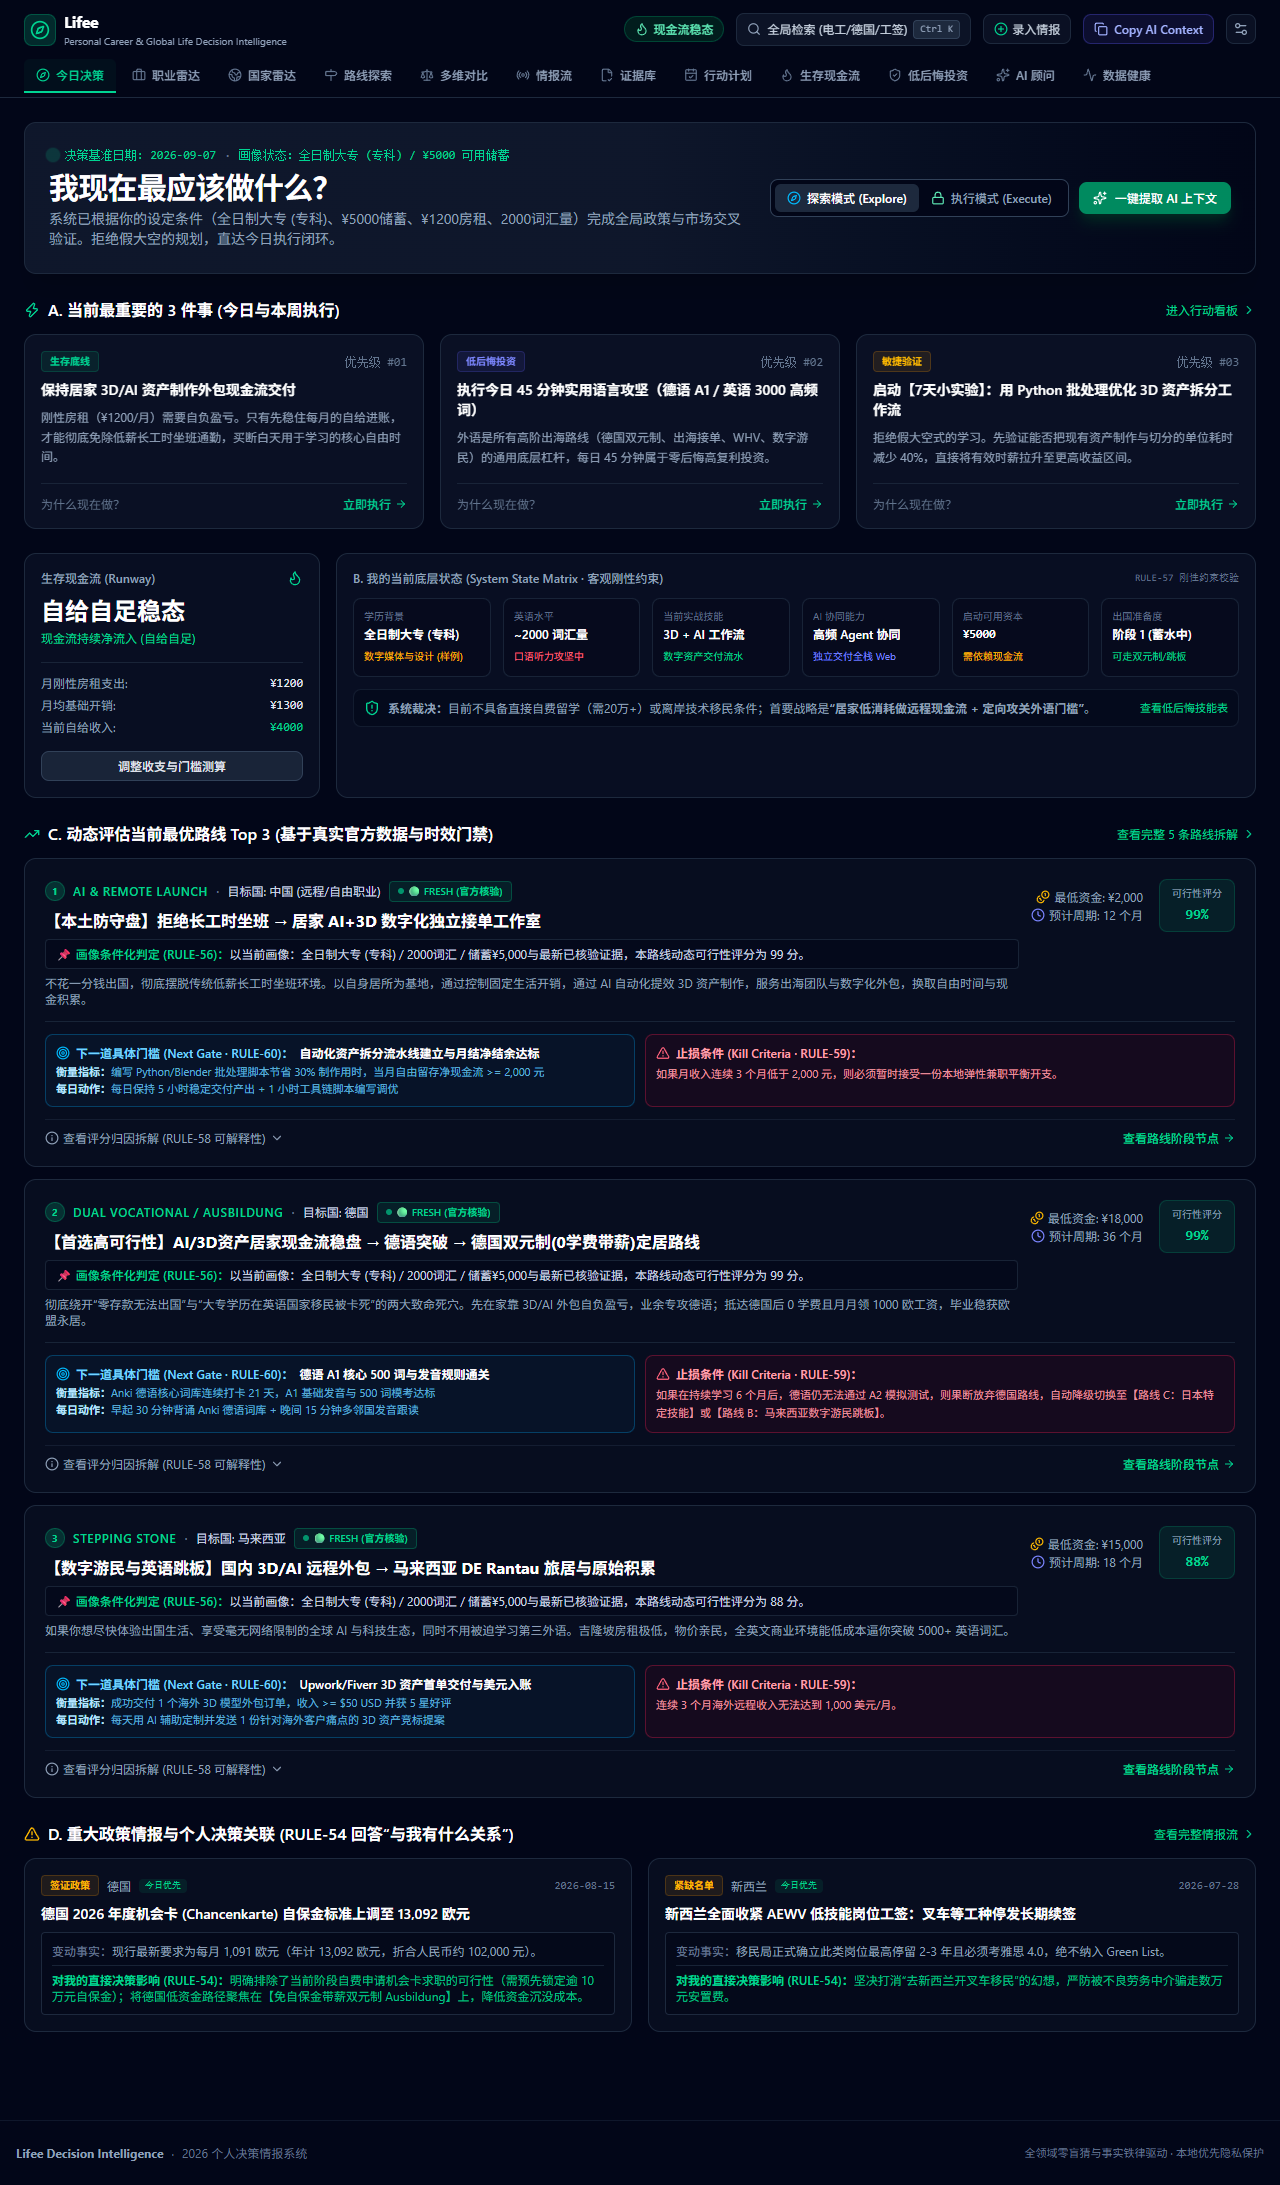
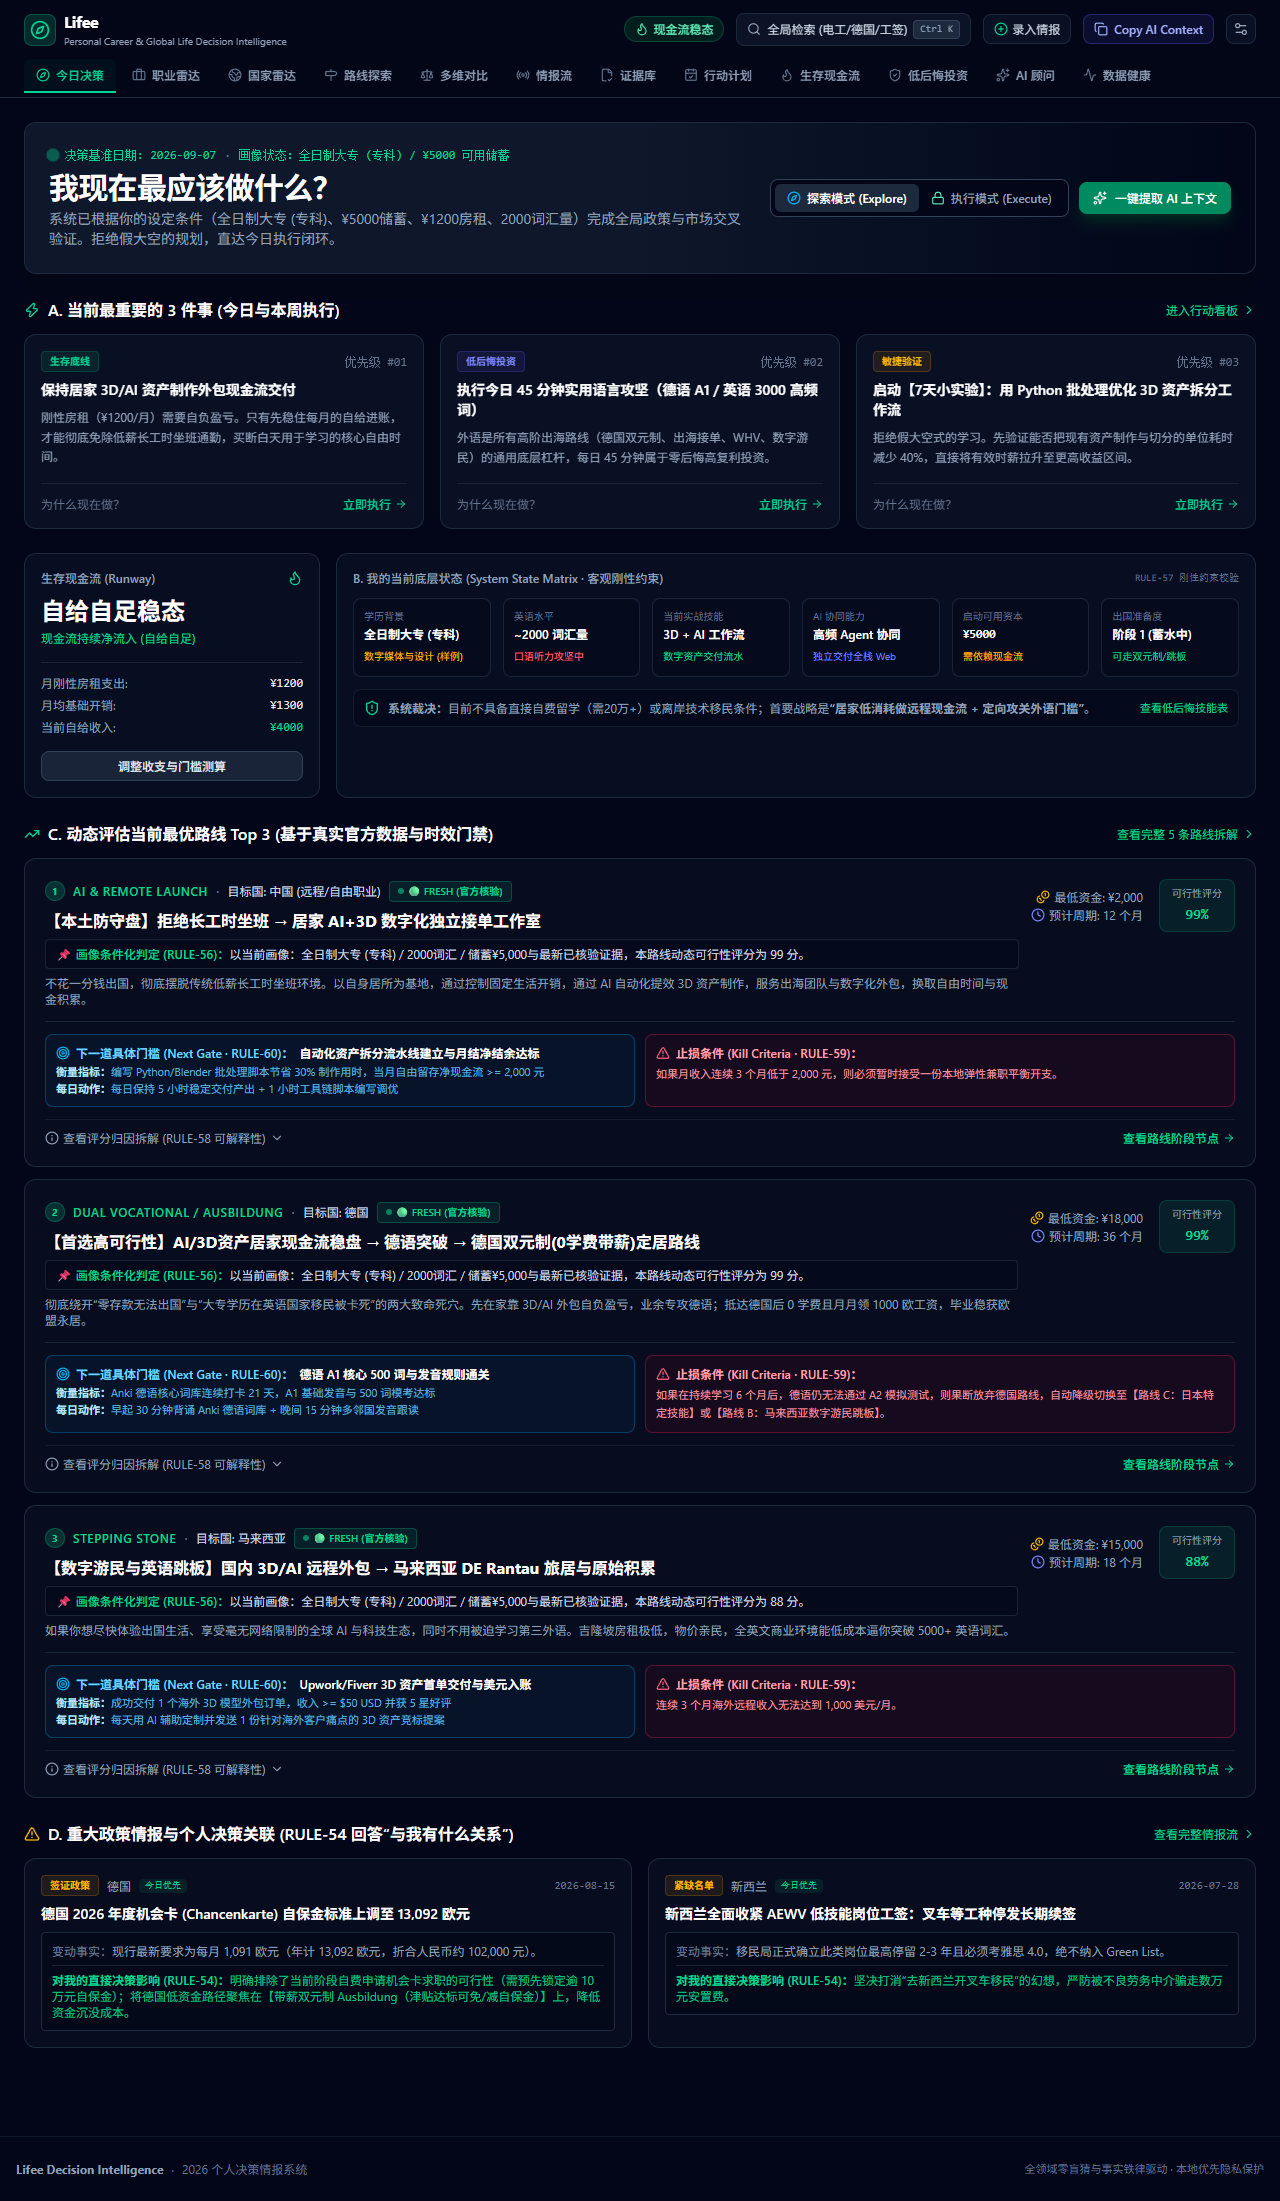
fix(pwa): upgrade service worker to network-first navigation, add root fallback UI and ErrorBoundary

diff --git a/src/main.tsx b/src/main.tsx
@@ -1,18 +1,103 @@
-import React from 'react';
+import React, { Component, ReactNode, ErrorInfo } from 'react';
 import ReactDOM from 'react-dom/client';
 import App from './App';
 import './index.css';
 
+// Automatic recovery on stale Vite bundle chunk fetch failure
+window.addEventListener('vite:preloadError', (event) => {
+  console.warn('Vite preload error detected, reloading to fetch latest bundle...', event);
+  window.location.reload();
+});
+
+interface ErrorBoundaryProps {
+  children: ReactNode;
+}
+
+interface ErrorBoundaryState {
+  hasError: boolean;
+  error: Error | null;
+}
+
+class RootErrorBoundary extends Component<ErrorBoundaryProps, ErrorBoundaryState> {
+  constructor(props: ErrorBoundaryProps) {
+    super(props);
+    this.state = { hasError: false, error: null };
+  }
+
+  static getDerivedStateFromError(error: Error): ErrorBoundaryState {
+    return { hasError: true, error };
+  }
+
+  componentDidCatch(error: Error, errorInfo: ErrorInfo) {
+    console.error('[RootErrorBoundary] Uncaught rendering exception:', error, errorInfo);
+  }
+
+  handleClearCacheAndReload = () => {
+    if ('serviceWorker' in navigator) {
+      navigator.serviceWorker.getRegistrations().then((regs) => {
+        regs.forEach((reg) => reg.unregister());
+      });
+    }
+    if ('caches' in window) {
+      caches.keys().then((keys) => {
+        keys.forEach((key) => caches.delete(key));
+      });
+    }
+    localStorage.clear();
+    window.location.reload();
+  };
+
+  render() {
+    if (this.state.hasError) {
+      return (
+        <div className="min-h-screen bg-slate-950 text-slate-100 flex flex-col items-center justify-center p-6 text-center">
+          <div className="max-w-md w-full bg-slate-900 border border-red-500/30 rounded-xl p-6 shadow-2xl space-y-4">
+            <div className="w-12 h-12 rounded-full bg-red-500/10 border border-red-500/20 text-red-400 flex items-center justify-center mx-auto text-xl font-bold">
+              !
+            </div>
+            <h2 className="text-xl font-bold text-white">页面渲染遇到异常</h2>
+            <p className="text-sm text-slate-400 leading-relaxed">
+              可能由于浏览器旧版本 Service Worker 缓存或本地状态不匹配所致。点击下方按钮即可一键清理缓存并重载最新系统。
+            </p>
+            {this.state.error && (
+              <div className="p-3 bg-slate-950 rounded border border-slate-800 text-xs text-red-300/80 font-mono text-left break-all max-h-32 overflow-y-auto">
+                {this.state.error.message}
+              </div>
+            )}
+            <button
+              onClick={this.handleClearCacheAndReload}
+              className="w-full py-2.5 px-4 bg-emerald-600 hover:bg-emerald-500 text-white font-medium rounded-lg transition-colors cursor-pointer text-sm shadow-lg shadow-emerald-900/30"
+            >
+              清除本地缓存并强制刷新
+            </button>
+          </div>
+        </div>
+      );
+    }
+    return this.props.children;
+  }
+}
+
 if ('serviceWorker' in navigator && import.meta.env.PROD) {
+  let refreshing = false;
+  navigator.serviceWorker.addEventListener('controllerchange', () => {
+    if (!refreshing) {
+      refreshing = true;
+      window.location.reload();
+    }
+  });
+
   window.addEventListener('load', () => {
-    navigator.serviceWorker.register('./sw.js').catch(() => {
-      // service worker register fail safe
-    });
+    navigator.serviceWorker.register('./sw.js').then((reg) => {
+      reg.update().catch(() => {});
+    }).catch(() => {});
   });
 }
 
 ReactDOM.createRoot(document.getElementById('root')!).render(
   <React.StrictMode>
-    <App />
+    <RootErrorBoundary>
+      <App />
+    </RootErrorBoundary>
   </React.StrictMode>
 );

diff --git a/index.html b/index.html
@@ -1,4 +1,4 @@
-<!DOCTYPE html>
+<!DOCTYPE html>
 <html lang="zh-CN" class="dark">
   <head>
     <meta charset="UTF-8" />
@@ -9,10 +9,23 @@
     <link rel="manifest" href="./manifest.json" />
     <meta name="theme-color" content="#020617" />
     <meta name="apple-mobile-web-app-capable" content="yes" />
+    <meta name="mobile-web-app-capable" content="yes" />
     <meta name="apple-mobile-web-app-status-bar-style" content="black-translucent" />
   </head>
   <body class="bg-slate-950 text-slate-100 min-h-screen">
-    <div id="root"></div>
+    <div id="root">
+      <div style="display:flex;flex-direction:column;align-items:center;justify-content:center;min-height:100vh;background-color:#020617;color:#94a3b8;font-family:system-ui,-apple-system,sans-serif;text-align:center;padding:24px;">
+        <div style="width:36px;height:36px;border:3px solid #1e293b;border-top:3px solid #10b981;border-radius:50%;animation:lifee-spin 0.8s linear infinite;margin-bottom:20px;"></div>
+        <div style="font-size:16px;font-weight:600;color:#f8fafc;margin-bottom:8px;">Lifee 正在加载决策情报系统...</div>
+        <div style="font-size:12px;color:#64748b;max-width:320px;line-height:1.6;margin-bottom:20px;">若首次打开或网络版本更新中，请稍候；如遇旧版缓存未刷新，可点击下方强制清除。</div>
+        <button onclick="if('serviceWorker' in navigator){navigator.serviceWorker.getRegistrations().then(r=>r.forEach(w=>w.unregister()));}if('caches' in window){caches.keys().then(k=>Promise.all(k.map(c=>caches.delete(c))));}localStorage.clear();location.reload(true);" style="background:#059669;color:#ffffff;border:none;padding:8px 18px;border-radius:8px;font-size:13px;font-weight:500;cursor:pointer;box-shadow:0 4px 12px rgba(5,150,105,0.25);">
+          一键清除缓存并刷新
+        </button>
+      </div>
+      <style>
+        @keyframes lifee-spin { 0% { transform: rotate(0deg); } 100% { transform: rotate(360deg); } }
+      </style>
+    </div>
     <script type="module" src="./src/main.tsx"></script>
   </body>
 </html>

diff --git a/public/sw.js b/public/sw.js
@@ -1,15 +1,6 @@
-const CACHE_NAME = 'lifee-cache-v1';
-const ASSETS = [
-  './',
-  './index.html',
-  './favicon.svg',
-  './manifest.json'
-];
+const CACHE_NAME = 'lifee-cache-v2';
 
 self.addEventListener('install', (e) => {
-  e.waitUntil(
-    caches.open(CACHE_NAME).then((cache) => cache.addAll(ASSETS))
-  );
   self.skipWaiting();
 });
 
@@ -24,7 +15,37 @@ self.addEventListener('activate', (e) => {
 
 self.addEventListener('fetch', (e) => {
   if (e.request.method !== 'GET') return;
+
+  // RULE: Navigation / HTML requests MUST be Network-First to prevent stale bundle trapping
+  if (e.request.mode === 'navigate' || e.request.destination === 'document' || e.request.url.endsWith('/') || e.request.url.includes('index.html')) {
+    e.respondWith(
+      fetch(e.request)
+        .then((res) => {
+          if (res.ok) {
+            const clone = res.clone();
+            caches.open(CACHE_NAME).then((cache) => cache.put(e.request, clone));
+          }
+          return res;
+        })
+        .catch(() => caches.match(e.request).then((res) => res || caches.match('./index.html')))
+    );
+    return;
+  }
+
+  // Static assets: Stale-While-Revalidate with error self-healing
   e.respondWith(
-    caches.match(e.request).then((res) => res || fetch(e.request).catch(() => caches.match('./index.html')))
+    caches.match(e.request).then((cached) => {
+      const fetchPromise = fetch(e.request)
+        .then((networkRes) => {
+          if (networkRes.ok && (e.request.url.includes('/assets/') || e.request.url.includes('/data/'))) {
+            const clone = networkRes.clone();
+            caches.open(CACHE_NAME).then((cache) => cache.put(e.request, clone));
+          }
+          return networkRes;
+        })
+        .catch((err) => cached || Promise.reject(err));
+
+      return cached || fetchPromise;
+    })
   );
 });
